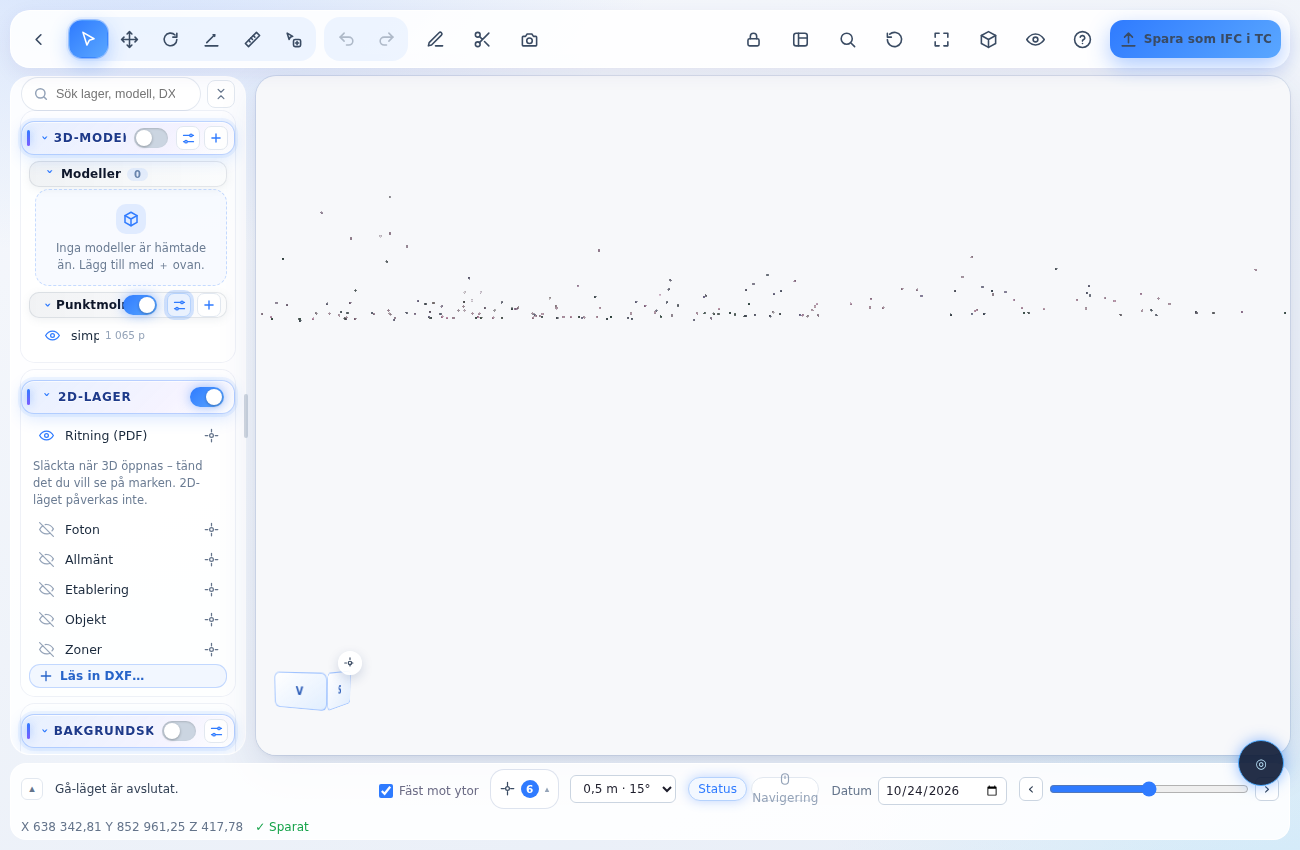
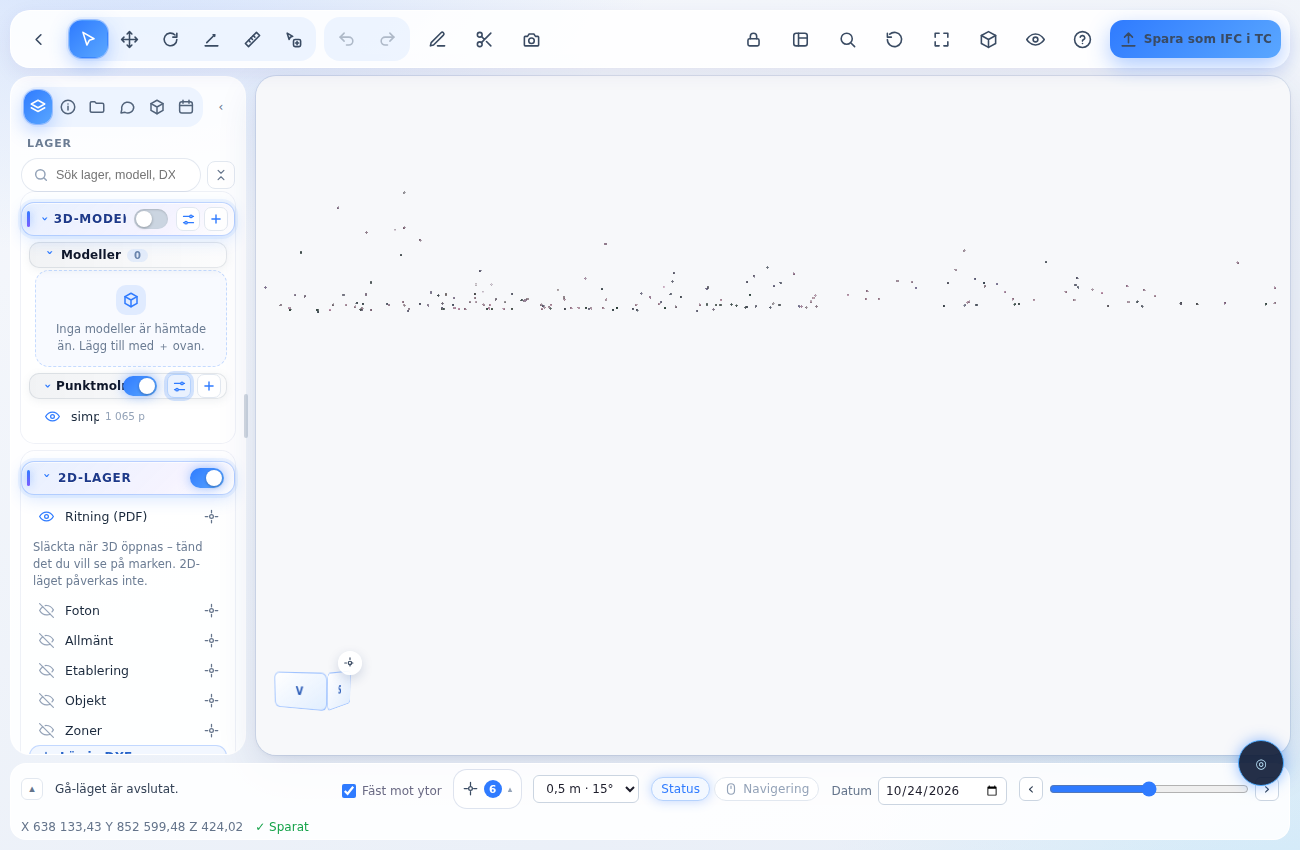
Rubrikdesignen i alla flikar, switchen längst ut i blockhuvudena, fix för ikonknappar med text

diff --git a/docs/lagesplan.html b/docs/lagesplan.html
@@ -10,9 +10,9 @@
 <meta name="theme-color" content="#ffffff" />
 <link rel="apple-touch-icon" href="icons/lagesplan-180.png" />
 <title>Lägesplan – 4D-planering</title>
-<script src="error-guard.js?v=20261024152437"></script>
+<script src="error-guard.js?v=20261024154053"></script>
 <script src="https://cdnjs.cloudflare.com/ajax/libs/pdf.js/3.11.174/pdf.min.js"></script>
-<script src="github-storage.js?v=20261024152437"></script>
+<script src="github-storage.js?v=20261024154053"></script>
 <style>
   /* Beskär bild med musen (lagesplan-imgcrop.js) */
   #imgCropModal { position: fixed; inset: 0; z-index: 1100; background: rgba(15,23,42,.55); display: flex; align-items: center; justify-content: center; }
@@ -1544,7 +1544,8 @@
   svg.ui-ic { width: 16px; height: 16px; flex: 0 0 auto; vertical-align: -3px; }
   svg.ui-plus { display: block; flex: 0 0 auto; }
   /* Ikonknappar: ikonen alltid mitt i knappen (marginaler/padding från andra regler får inte skjuta den åt sidan) */
-  #view3d.v3-nordic button:has(> svg:only-child):not(.v3-wide) { box-sizing: border-box; padding: 0; display: inline-grid; place-items: center; place-content: center; }
+  #view3d.v3-nordic :is(.v3-eye, .v3-lr-zoom, .v3-lr-more, .v3-lr-del, .v3-ldd-b, .v3-side-lock, .v3-lr-save-i, .v3-ic):has(> svg:only-child):not(:has(> svg + *)) { box-sizing: border-box; padding: 0; display: inline-grid; place-items: center; place-content: center; }
+  #view3d.v3-nordic button.ui-ic-only { display: inline-flex; align-items: center; justify-content: center; }
   button:has(> svg.ui-plus:only-child), .pp-n:has(> svg.ui-plus:only-child) { display: inline-flex; align-items: center; justify-content: center; }
   #view3d .v3-ldd-b > svg.ui-plus { width: 14px; height: 14px; }
   :has(> .ap-ic) > svg.ui-ic { display: none !important; } /* iPhone-fältläget har egna ikoner */
@@ -3272,6 +3273,11 @@ body.v3-gjdraw #v3Canvas canvas { cursor: crosshair; }
 .v3-pop-menu button { display: flex; align-items: center; justify-content: space-between; gap: 14px; width: 100%; padding: 7px 10px; border: 0; background: transparent; border-radius: 7px; font-size: 12.5px; color: #0f172a; cursor: pointer; text-align: left; }
 .v3-pop-menu button:hover:not(:disabled) { background: #eef5ff; color: #1d4ed8; } .v3-pop-menu button:disabled { opacity: .4; cursor: default; } .v3-pop-menu button.v3-danger { color: #b91c1c; } .v3-pop-menu button.v3-danger:hover { background: #fef2f2; }
 .v3-pop-menu kbd { font-size: 10px; color: #94a3b8; background: transparent; border: 0; } .v3-pop-menu hr { border: 0; border-top: 1px solid #e2e8f0; margin: 4px 2px; }
+#view3d.v3-nordic #v3Lib .v3-lf > button.v3-pal-g { flex: 1; width: auto; min-width: 0; }
+/* Samma rubrikdesign i alla flikar (bibliotek, grupper, kommentarer, egenskaper, plan) */
+#view3d.v3-nordic #v3Lib button.v3-pal-g, #view3d.v3-nordic .v3-gf-t, #view3d.v3-nordic .v3-ksec-h, #view3d.v3-nordic .v3-msec-h, #view3d.v3-nordic .v3-card-h, #view3d.v3-nordic .v3-pp-head, #view3d.v3-nordic .v3-afold-h { position: relative; margin: 8px 0 5px; padding: 6px 10px 6px 14px; border-radius: 12px; border: 1px solid rgba(47,123,255,.28); background: linear-gradient(135deg, rgba(47,123,255,.10), rgba(124,92,255,.06) 70%, rgba(255,255,255,0)); box-shadow: 0 0 0 3px rgba(47,123,255,.06), 0 4px 14px rgba(47,123,255,.15), inset 0 1px 0 rgba(255,255,255,.7); color: #1e3a8a; font-weight: 750; letter-spacing: .05em; text-transform: uppercase; font-size: 11.5px; }
+#view3d.v3-nordic #v3Lib button.v3-pal-g::after, #view3d.v3-nordic .v3-gf-t::after, #view3d.v3-nordic .v3-ksec-h::after, #view3d.v3-nordic .v3-msec-h::after, #view3d.v3-nordic .v3-card-h::after, #view3d.v3-nordic .v3-pp-head::after { content: ""; position: absolute; left: 5px; top: 7px; bottom: 7px; width: 3px; border-radius: 3px; background: linear-gradient(180deg, #2f7bff, #7c5cff); box-shadow: 0 0 8px rgba(47,123,255,.5); }
+#view3d.v3-nordic #v3Lib button.v3-pal-g:hover, #view3d.v3-nordic .v3-gf-t:hover, #view3d.v3-nordic .v3-ksec-h:hover, #view3d.v3-nordic .v3-msec-h:hover { color: #1d4ed8; box-shadow: 0 0 0 3px rgba(47,123,255,.12), 0 6px 18px rgba(47,123,255,.22), inset 0 1px 0 rgba(255,255,255,.7); background: linear-gradient(135deg, rgba(47,123,255,.14), rgba(124,92,255,.08)); }
 /* ---- Rubriker med mjukt sken (Victor 2026-10-24: "markera upp rubrikerna tydligare … som en glow runt kanterna") ---- */
 #view3d.v3-nordic .v3-lsec-h { position: relative; gap: 4px; margin: 10px 0 6px; padding: 4px 6px 4px 12px; border-radius: 13px; border: 1px solid rgba(47,123,255,.30); background: linear-gradient(135deg, rgba(47,123,255,.11), rgba(124,92,255,.07) 70%, rgba(255,255,255,0)); box-shadow: 0 0 0 3px rgba(47,123,255,.07), 0 5px 16px rgba(47,123,255,.17), inset 0 1px 0 rgba(255,255,255,.7); }
 #view3d.v3-nordic .v3-lsec-h::before { content: ""; position: absolute; left: 5px; top: 8px; bottom: 8px; width: 3px; border-radius: 3px; background: linear-gradient(180deg, #2f7bff, #7c5cff); box-shadow: 0 0 8px rgba(47,123,255,.55); }
@@ -3880,113 +3886,113 @@ details.sec[open] > summary { border-bottom: 0; margin: 0 -2px 10px; }
     </div>
   </main>
 </div>
-<script src="lagesplan-merge.js?v=20261024152437"></script>
-<script src="ui-icons.js?v=20261024152437"></script>
-<script src="ui-dialog.js?v=20261024152437"></script>
-<script src="lagesplan-ui.js?v=20261024152437"></script>
-<script src="lagesplan.js?v=20261024152437"></script>
-<script src="lagesplan-tools.js?v=20261024152437"></script>
-<script src="lagesplan-layers.js?v=20261024152437"></script>
-<script src="lagesplan-xls.js?v=20261024152437"></script>
-<script src="lagesplan-storage.js?v=20261024152437"></script>
-<script src="lagesplan-pdfoverlay.js?v=20261024152437"></script>
-<script src="lagesplan-pdfunder.js?v=20261024152437"></script>
-<script src="lagesplan-views.js?v=20261024152437"></script>
-<script src="lagesplan-film.js?v=20261024152437"></script>
-<script src="lagesplan-cad.js?v=20261024152437"></script>
-<script src="lagesplan-ifc2d.js?v=20261024152437"></script>
-<script src="lagesplan-vecpdf.js?v=20261024152437"></script>
-<script src="lagesplan-pdfvec.js?v=20261024152437"></script>
-<script src="lagesplan-print.js?v=20261024152437"></script>
-<script src="lagesplan-arrows.js?v=20261024152437"></script>
-<script src="lagesplan-printshapes.js?v=20261024152437"></script>
-<script src="lagesplan-objstatus.js?v=20261024152437"></script>
-<script src="lagesplan-printsection.js?v=20261024152437"></script>
-<script src="lagesplan-printtable.js?v=20261024152437"></script>
-<script src="lagesplan-printctx.js?v=20261024152437"></script>
-<script src="lagesplan-printdxf.js?v=20261024152437"></script>
-<script src="lagesplan-imgcrop.js?v=20261024152437"></script>
-<script src="lagesplan-printlib.js?v=20261024152437"></script>
-<script src="lagesplan-pdflayers.js?v=20261024152437"></script>
-<script src="vendor/polygon-clipping.umd.min.js?v=20261024152437"></script>
-<script src="lagesplan-objmarks.js?v=20261024152437"></script>
-<script src="lagesplan-objlist.js?v=20261024152437"></script>
-<script src="lagesplan-zones.js?v=20261024152437"></script>
-<script src="lagesplan-wbs.js?v=20261024152437"></script>
-<script src="lagesplan-zonesets.js?v=20261024152437"></script>
-<script src="lagesplan-zoneguard.js?v=20261024152437"></script>
-<script src="lagesplan-zoneexport.js?v=20261024152437"></script>
-<script src="lagesplan-itemlink.js?v=20261024152437"></script>
-<script src="lagesplan-dxfexport.js?v=20261024152437"></script>
-<script src="ifc-writer.js?v=20261024152437"></script>
-<script src="lagesplan-ifcexport.js?v=20261024152437"></script>
-<script src="lagesplan-zonecad.js?v=20261024152437"></script>
-<script src="lagesplan-siteifc.js?v=20261024152437"></script>
-<script src="lagesplan-daily.js?v=20261024152437"></script>
-<script src="lagesplan-gps.js?v=20261024152437"></script>
-<script src="lagesplan-weather.js?v=20261024152437"></script>
-<script src="lagesplan-touch.js?v=20261024152437"></script>
-<script src="lagesplan-drawer.js?v=20261024152437"></script>
-<script src="lagesplan-gpslive.js?v=20261024152437"></script>
-<script src="place3d.js?v=20261024152437"></script>
-<script src="ifc-mesh.js?v=20261024152437"></script>
-<script src="place-models.js?v=20261024152437"></script>
-<script src="lagesplan-3dbuild.js?v=20261024152437"></script>
-<script src="lagesplan-3dlight.js?v=20261024152437"></script>
-<script src="lagesplan-3dpc.js?v=20261024152437"></script>
-<script src="lagesplan-3dbsel.js?v=20261024152437"></script>
-<script src="lagesplan-3dtint.js?v=20261024152437"></script>
-<script src="lagesplan-3dbmove.js?v=20261024152437"></script>
-<script src="ifc-subset.js?v=20261024152437"></script>
-<script src="lagesplan-3dprops.js?v=20261024152437"></script>
-<script src="lagesplan-3dgroups.js?v=20261024152437"></script>
-<script src="lagesplan-3dorg.js?v=20261024152437"></script>
-<script src="lagesplan-3danim.js?v=20261024152437"></script>
-<script src="lagesplan-3dactive.js?v=20261024152437"></script>
-<script src="lagesplan-3dbubbles.js?v=20261024152437"></script>
-<script src="lagesplan-3dfilm.js?v=20261024152437"></script>
-<script src="lagesplan-3dfilmfx.js?v=20261024152437"></script>
-<script src="lagesplan-3dgantt.js?v=20261024152437"></script>
-<script src="lagesplan-3dmode.js?v=20261024152437"></script>
-<script src="lagesplan-ppexport.js?v=20261024152437"></script>
-<script src="lagesplan-3dplan.js?v=20261024152437"></script>
-<script src="lagesplan-3dsite.js?v=20261024152437"></script>
-<script src="lagesplan-3dsitesel.js?v=20261024152437"></script>
-<script src="lagesplan-3ddxf.js?v=20261024152437"></script>
-<script src="lagesplan-3dmeasure.js?v=20261024152437"></script>
-<script src="lagesplan-3dclip.js?v=20261024152437"></script>
-<script src="lagesplan-3dphotos.js?v=20261024152437"></script>
-<script src="lagesplan-3dcomments.js?v=20261024152437"></script>
-<script src="lagesplan-3dannot.js?v=20261024152437"></script>
-<script src="lagesplan-3dlib.js?v=20261024152437"></script>
-<script src="lagesplan-htmlexport.js?v=20261024152437"></script>
-<script src="lagesplan-3dplace.js?v=20261024152437"></script>
-<script src="lagesplan-montage3d.js?v=20261024152437"></script>
-<script src="montage-report-modern.js?v=20261024152437"></script>
-<script src="lagesplan-3dmont.js?v=20261024152437"></script>
-<script src="lagesplan-3dlayers.js?v=20261024152437"></script>
-<script src="lagesplan-3dnav.js?v=20261024152437"></script>
-<script src="lagesplan-3dmap.js?v=20261024152437"></script>
-<script src="lagesplan-3dctx.js?v=20261024152437"></script>
-<script src="lagesplan-3dui.js?v=20261024152437"></script>
-<script src="lagesplan-3dgjut.js?v=20261024152437"></script>
-<script src="lagesplan-3dexplode.js?v=20261024152437"></script>
-<script src="lagesplan-3dchar.js?v=20261024152437"></script>
-<script src="lagesplan-3dglb.js?v=20261024152437"></script>
-<script src="lagesplan-3dlift.js?v=20261024152437"></script>
-<script src="place-geo.js?v=20261024152437"></script>
-<script src="place-smart.js?v=20261024152437"></script>
-<script src="place-smart-objs.js?v=20261024152437"></script>
-<script src="place-crew.js?v=20261024152437"></script>
-<script src="lagesplan-3dwheel.js?v=20261024152437"></script>
-<script src="lagesplan-3dveh.js?v=20261024152437"></script>
-<script src="lagesplan-3dvehifc.js?v=20261024152437"></script>
-<script src="lagesplan-3dwalk.js?v=20261024152437"></script>
-<script src="lagesplan-3ddialogs.js?v=20261024152437"></script>
-<script src="lagesplan-3dclash.js?v=20261024152437"></script>
-<script src="lagesplan-3dhandles.js?v=20261024152437"></script>
-<script src="lagesplan-3dtools.js?v=20261024152437"></script>
-<script src="lagesplan-3d.js?v=20261024152437"></script>
-<script src="lagesplan-keys.js?v=20261024152437"></script>
+<script src="lagesplan-merge.js?v=20261024154053"></script>
+<script src="ui-icons.js?v=20261024154053"></script>
+<script src="ui-dialog.js?v=20261024154053"></script>
+<script src="lagesplan-ui.js?v=20261024154053"></script>
+<script src="lagesplan.js?v=20261024154053"></script>
+<script src="lagesplan-tools.js?v=20261024154053"></script>
+<script src="lagesplan-layers.js?v=20261024154053"></script>
+<script src="lagesplan-xls.js?v=20261024154053"></script>
+<script src="lagesplan-storage.js?v=20261024154053"></script>
+<script src="lagesplan-pdfoverlay.js?v=20261024154053"></script>
+<script src="lagesplan-pdfunder.js?v=20261024154053"></script>
+<script src="lagesplan-views.js?v=20261024154053"></script>
+<script src="lagesplan-film.js?v=20261024154053"></script>
+<script src="lagesplan-cad.js?v=20261024154053"></script>
+<script src="lagesplan-ifc2d.js?v=20261024154053"></script>
+<script src="lagesplan-vecpdf.js?v=20261024154053"></script>
+<script src="lagesplan-pdfvec.js?v=20261024154053"></script>
+<script src="lagesplan-print.js?v=20261024154053"></script>
+<script src="lagesplan-arrows.js?v=20261024154053"></script>
+<script src="lagesplan-printshapes.js?v=20261024154053"></script>
+<script src="lagesplan-objstatus.js?v=20261024154053"></script>
+<script src="lagesplan-printsection.js?v=20261024154053"></script>
+<script src="lagesplan-printtable.js?v=20261024154053"></script>
+<script src="lagesplan-printctx.js?v=20261024154053"></script>
+<script src="lagesplan-printdxf.js?v=20261024154053"></script>
+<script src="lagesplan-imgcrop.js?v=20261024154053"></script>
+<script src="lagesplan-printlib.js?v=20261024154053"></script>
+<script src="lagesplan-pdflayers.js?v=20261024154053"></script>
+<script src="vendor/polygon-clipping.umd.min.js?v=20261024154053"></script>
+<script src="lagesplan-objmarks.js?v=20261024154053"></script>
+<script src="lagesplan-objlist.js?v=20261024154053"></script>
+<script src="lagesplan-zones.js?v=20261024154053"></script>
+<script src="lagesplan-wbs.js?v=20261024154053"></script>
+<script src="lagesplan-zonesets.js?v=20261024154053"></script>
+<script src="lagesplan-zoneguard.js?v=20261024154053"></script>
+<script src="lagesplan-zoneexport.js?v=20261024154053"></script>
+<script src="lagesplan-itemlink.js?v=20261024154053"></script>
+<script src="lagesplan-dxfexport.js?v=20261024154053"></script>
+<script src="ifc-writer.js?v=20261024154053"></script>
+<script src="lagesplan-ifcexport.js?v=20261024154053"></script>
+<script src="lagesplan-zonecad.js?v=20261024154053"></script>
+<script src="lagesplan-siteifc.js?v=20261024154053"></script>
+<script src="lagesplan-daily.js?v=20261024154053"></script>
+<script src="lagesplan-gps.js?v=20261024154053"></script>
+<script src="lagesplan-weather.js?v=20261024154053"></script>
+<script src="lagesplan-touch.js?v=20261024154053"></script>
+<script src="lagesplan-drawer.js?v=20261024154053"></script>
+<script src="lagesplan-gpslive.js?v=20261024154053"></script>
+<script src="place3d.js?v=20261024154053"></script>
+<script src="ifc-mesh.js?v=20261024154053"></script>
+<script src="place-models.js?v=20261024154053"></script>
+<script src="lagesplan-3dbuild.js?v=20261024154053"></script>
+<script src="lagesplan-3dlight.js?v=20261024154053"></script>
+<script src="lagesplan-3dpc.js?v=20261024154053"></script>
+<script src="lagesplan-3dbsel.js?v=20261024154053"></script>
+<script src="lagesplan-3dtint.js?v=20261024154053"></script>
+<script src="lagesplan-3dbmove.js?v=20261024154053"></script>
+<script src="ifc-subset.js?v=20261024154053"></script>
+<script src="lagesplan-3dprops.js?v=20261024154053"></script>
+<script src="lagesplan-3dgroups.js?v=20261024154053"></script>
+<script src="lagesplan-3dorg.js?v=20261024154053"></script>
+<script src="lagesplan-3danim.js?v=20261024154053"></script>
+<script src="lagesplan-3dactive.js?v=20261024154053"></script>
+<script src="lagesplan-3dbubbles.js?v=20261024154053"></script>
+<script src="lagesplan-3dfilm.js?v=20261024154053"></script>
+<script src="lagesplan-3dfilmfx.js?v=20261024154053"></script>
+<script src="lagesplan-3dgantt.js?v=20261024154053"></script>
+<script src="lagesplan-3dmode.js?v=20261024154053"></script>
+<script src="lagesplan-ppexport.js?v=20261024154053"></script>
+<script src="lagesplan-3dplan.js?v=20261024154053"></script>
+<script src="lagesplan-3dsite.js?v=20261024154053"></script>
+<script src="lagesplan-3dsitesel.js?v=20261024154053"></script>
+<script src="lagesplan-3ddxf.js?v=20261024154053"></script>
+<script src="lagesplan-3dmeasure.js?v=20261024154053"></script>
+<script src="lagesplan-3dclip.js?v=20261024154053"></script>
+<script src="lagesplan-3dphotos.js?v=20261024154053"></script>
+<script src="lagesplan-3dcomments.js?v=20261024154053"></script>
+<script src="lagesplan-3dannot.js?v=20261024154053"></script>
+<script src="lagesplan-3dlib.js?v=20261024154053"></script>
+<script src="lagesplan-htmlexport.js?v=20261024154053"></script>
+<script src="lagesplan-3dplace.js?v=20261024154053"></script>
+<script src="lagesplan-montage3d.js?v=20261024154053"></script>
+<script src="montage-report-modern.js?v=20261024154053"></script>
+<script src="lagesplan-3dmont.js?v=20261024154053"></script>
+<script src="lagesplan-3dlayers.js?v=20261024154053"></script>
+<script src="lagesplan-3dnav.js?v=20261024154053"></script>
+<script src="lagesplan-3dmap.js?v=20261024154053"></script>
+<script src="lagesplan-3dctx.js?v=20261024154053"></script>
+<script src="lagesplan-3dui.js?v=20261024154053"></script>
+<script src="lagesplan-3dgjut.js?v=20261024154053"></script>
+<script src="lagesplan-3dexplode.js?v=20261024154053"></script>
+<script src="lagesplan-3dchar.js?v=20261024154053"></script>
+<script src="lagesplan-3dglb.js?v=20261024154053"></script>
+<script src="lagesplan-3dlift.js?v=20261024154053"></script>
+<script src="place-geo.js?v=20261024154053"></script>
+<script src="place-smart.js?v=20261024154053"></script>
+<script src="place-smart-objs.js?v=20261024154053"></script>
+<script src="place-crew.js?v=20261024154053"></script>
+<script src="lagesplan-3dwheel.js?v=20261024154053"></script>
+<script src="lagesplan-3dveh.js?v=20261024154053"></script>
+<script src="lagesplan-3dvehifc.js?v=20261024154053"></script>
+<script src="lagesplan-3dwalk.js?v=20261024154053"></script>
+<script src="lagesplan-3ddialogs.js?v=20261024154053"></script>
+<script src="lagesplan-3dclash.js?v=20261024154053"></script>
+<script src="lagesplan-3dhandles.js?v=20261024154053"></script>
+<script src="lagesplan-3dtools.js?v=20261024154053"></script>
+<script src="lagesplan-3d.js?v=20261024154053"></script>
+<script src="lagesplan-keys.js?v=20261024154053"></script>
 </body>
 </html>

diff --git a/docs/lagesplan-3dlayers.js b/docs/lagesplan-3dlayers.js
@@ -137,7 +137,7 @@ function l3LayersRender() {
     }
     // Grupperna Modeller och Punktmoln (hopfällbara).
     const nm = all.length;
-    mh = l3lSub("models", "Modeller", nm, mh) + (typeof l3pcHtml === "function" ? l3lSub("pc", "Punktmoln", l3pcCount() || null, l3pcHtml(row, esc), l3lSw("pc", "Tänd/släck alla punktmoln") + (typeof l3pcSettingsHtml === "function" ? l3lMenu("pcset", '<svg viewBox="0 0 24 24" width="15" height="15" fill="none" stroke="currentColor" stroke-width="2" stroke-linecap="round" stroke-linejoin="round"><path d="M4 7h10M18 7h2M4 17h2M10 17h10"/><circle cx="16" cy="7" r="2"/><circle cx="8" cy="17" r="2"/></svg>', "Visning av punktmoln", l3pcSettingsHtml()) : "") + l3lMenu("pc", "＋", "Lägg till punktmoln", (noTc ? "" : `<button type="button" data-l3l-browse="1" title="Projektets mappar i Trimble Connect – välj en LAS/LAZ/E57-fil">Från Trimble Connect…</button>`) + `<button type="button" data-pcfile2="1" title="LAS, LAZ, XYZ/PTS/TXT eller PLY från datorn (även över 2 GB)">Från datorn…</button>`)) : "");
+    mh = l3lSub("models", "Modeller", nm, mh) + (typeof l3pcHtml === "function" ? l3lSub("pc", "Punktmoln", l3pcCount() || null, l3pcHtml(row, esc), (typeof l3pcSettingsHtml === "function" ? l3lMenu("pcset", '<svg viewBox="0 0 24 24" width="15" height="15" fill="none" stroke="currentColor" stroke-width="2" stroke-linecap="round" stroke-linejoin="round"><path d="M4 7h10M18 7h2M4 17h2M10 17h10"/><circle cx="16" cy="7" r="2"/><circle cx="8" cy="17" r="2"/></svg>', "Visning av punktmoln", l3pcSettingsHtml()) : "") + l3lMenu("pc", "＋", "Lägg till punktmoln", (noTc ? "" : `<button type="button" data-l3l-browse="1" title="Projektets mappar i Trimble Connect – välj en LAS/LAZ/E57-fil">Från Trimble Connect…</button>`) + `<button type="button" data-pcfile2="1" title="LAS, LAZ, XYZ/PTS/TXT eller PLY från datorn (även över 2 GB)">Från datorn…</button>`) + l3lSw("pc", "Tänd/släck alla punktmoln")) : "");
   } else mh += l3lTreeHtml(l3lay.root, 0);
   mh += `<div id="v3LayBldgBox"></div>`;
   // Inställningar (sällan ändrade) i ett eget block längst ner – grupperade, korta namn, förklaring vid hovring.
@@ -171,9 +171,9 @@ function l3LayersRender() {
     ${chk("v3LayRebar", !!P.ifcRebar, "Armering", "mycket långsammare", "Armeringsjärn och nät. Ofta tiotusentals objekt och det tyngsta i en byggmodell – kan göra att stora modeller inte orkar läsas in.")}
     ${chk("v3LayVoids", !!P.ifcVoids, "Urtag", "hål i väggar, långsammare", "Fönster- och dörrhål sågas ut ur väggar och bjälklag. Gör inläsningen av stora modeller många gånger långsammare – gäller modeller som läses in efter att du ändrat.")}
     <button type="button" class="v3-link" id="v3MdlReset">Återställ visningen</button></div>`;
-  const modelsSec = l3lSec("models", "3D-modeller", `${tcBar}${mh}`, l3lSw("models", "Tänd/släck alla 3D-modeller") + l3lMenu("mdlset", '<svg viewBox="0 0 24 24" width="15" height="15" fill="none" stroke="currentColor" stroke-width="2" stroke-linecap="round" stroke-linejoin="round"><path d="M4 7h10M18 7h2M4 17h2M10 17h10"/><circle cx="16" cy="7" r="2"/><circle cx="8" cy="17" r="2"/></svg>', "Visning av 3D-modeller", mdlMenu) + l3lMenu("models", "＋", "Lägg till modell eller punktmoln", addItems));
+  const modelsSec = l3lSec("models", "3D-modeller", `${tcBar}${mh}`, l3lMenu("mdlset", '<svg viewBox="0 0 24 24" width="15" height="15" fill="none" stroke="currentColor" stroke-width="2" stroke-linecap="round" stroke-linejoin="round"><path d="M4 7h10M18 7h2M4 17h2M10 17h10"/><circle cx="16" cy="7" r="2"/><circle cx="8" cy="17" r="2"/></svg>', "Visning av 3D-modeller", mdlMenu) + l3lMenu("models", "＋", "Lägg till modell eller punktmoln", addItems) + l3lSw("models", "Tänd/släck alla 3D-modeller"));
   h = h.replace("<!--l3l-models-->", modelsSec);
-  if (typeof l3mapBody === "function") h += l3lSec("map", "BAKGRUNDSKARTA", l3mapBody(), `<label class="v3-lay-sw" title="Visa karta/satellit under modellerna"><input type="checkbox" data-lmapsw="1" ${l3Prefs().mapOn === true ? "checked" : ""} role="switch" aria-label="Bakgrundskarta" /><i></i></label>` + l3lMenu("mapset", '<svg viewBox="0 0 24 24" width="15" height="15" fill="none" stroke="currentColor" stroke-width="2" stroke-linecap="round" stroke-linejoin="round"><path d="M4 7h10M18 7h2M4 17h2M10 17h10"/><circle cx="16" cy="7" r="2"/><circle cx="8" cy="17" r="2"/></svg>', "Inställningar för kartan", l3mapSettingsHtml()));
+  if (typeof l3mapBody === "function") h += l3lSec("map", "BAKGRUNDSKARTA", l3mapBody(), l3lMenu("mapset", '<svg viewBox="0 0 24 24" width="15" height="15" fill="none" stroke="currentColor" stroke-width="2" stroke-linecap="round" stroke-linejoin="round"><path d="M4 7h10M18 7h2M4 17h2M10 17h10"/><circle cx="16" cy="7" r="2"/><circle cx="8" cy="17" r="2"/></svg>', "Inställningar för kartan", l3mapSettingsHtml()) + `<label class="v3-lay-sw" title="Visa karta/satellit under modellerna"><input type="checkbox" data-lmapsw="1" ${l3Prefs().mapOn === true ? "checked" : ""} role="switch" aria-label="Bakgrundskarta" /><i></i></label>`);
   h += l3lSec("settings", "Inställningar", setH);
   host.innerHTML = h;
   if (q) {

diff --git a/docs/index.html b/docs/index.html
@@ -3,12 +3,12 @@
 <head>
 <meta charset="UTF-8" />
 <title>4D-planering</title>
-<link rel="stylesheet" href="style.css?v=20261024152437" />
-<script src="error-guard.js?v=20261024152437"></script>
+<link rel="stylesheet" href="style.css?v=20261024154053" />
+<script src="error-guard.js?v=20261024154053"></script>
 <script src="https://components.connect.trimble.com/trimble-connect-workspace-api/index.js"></script>
 <script src="https://cdnjs.cloudflare.com/ajax/libs/xlsx/0.18.5/xlsx.full.min.js"></script>
-<script src="plan-excel-parser.js?v=20261024152437"></script>
-<script src="plan-excel-comments.js?v=20261024152437"></script>
+<script src="plan-excel-parser.js?v=20261024154053"></script>
+<script src="plan-excel-comments.js?v=20261024154053"></script>
 </head>
 <body>
 
@@ -759,33 +759,33 @@
     </div>
   </div>
 
-  <script src="github-storage.js?v=20261024152437"></script>
-  <script src="excel-link.js?v=20261024152437"></script>
-  <script src="dashboard-link.js?v=20261024152437"></script>
-  <script src="app.js?v=20261024152437"></script>
-<script src="import-report-html.js?v=20261024152437"></script>
-  <script src="manual-markings.js?v=20261024152437"></script>
-  <script src="ifc-writer.js?v=20261024152437"></script>
-  <script src="pp-import.js?v=20261024152437"></script>
-  <script src="pp-compare.js?v=20261024152437"></script>
-  <script src="data-maintenance.js?v=20261024152437"></script>
-  <script src="ifc-subset.js?v=20261024152437"></script>
-  <script src="tc-organizer.js?v=20261024152437"></script>
-  <script src="week-summary.js?v=20261024152437"></script>
-  <script src="ifc-mesh.js?v=20261024152437"></script>
-  <script src="place-models.js?v=20261024152437"></script>
-  <script src="tc-livemove.js?v=20261024152437"></script>
-  <script src="place3d.js?v=20261024152437"></script>
-  <script src="place-geo.js?v=20261024152437"></script>
-<script src="place-smart.js?v=20261024152437"></script>
-<script src="place-smart-objs.js?v=20261024152437"></script>
-<script src="place-crew.js?v=20261024152437"></script>
-  <script src="volume-ifc.js?v=20261024152437"></script>
-  <script src="sub-activity-list.js?v=20261024152437"></script>
-  <script src="activity-remove.js?v=20261024152437"></script>
-  <script src="dup-check.js?v=20261024152437"></script>
-  <script src="ui-shell.js?v=20261024152437"></script>
-  <script src="undo.js?v=20261024152437"></script>
-  <script src="planning-keys.js?v=20261024152437"></script>
+  <script src="github-storage.js?v=20261024154053"></script>
+  <script src="excel-link.js?v=20261024154053"></script>
+  <script src="dashboard-link.js?v=20261024154053"></script>
+  <script src="app.js?v=20261024154053"></script>
+<script src="import-report-html.js?v=20261024154053"></script>
+  <script src="manual-markings.js?v=20261024154053"></script>
+  <script src="ifc-writer.js?v=20261024154053"></script>
+  <script src="pp-import.js?v=20261024154053"></script>
+  <script src="pp-compare.js?v=20261024154053"></script>
+  <script src="data-maintenance.js?v=20261024154053"></script>
+  <script src="ifc-subset.js?v=20261024154053"></script>
+  <script src="tc-organizer.js?v=20261024154053"></script>
+  <script src="week-summary.js?v=20261024154053"></script>
+  <script src="ifc-mesh.js?v=20261024154053"></script>
+  <script src="place-models.js?v=20261024154053"></script>
+  <script src="tc-livemove.js?v=20261024154053"></script>
+  <script src="place3d.js?v=20261024154053"></script>
+  <script src="place-geo.js?v=20261024154053"></script>
+<script src="place-smart.js?v=20261024154053"></script>
+<script src="place-smart-objs.js?v=20261024154053"></script>
+<script src="place-crew.js?v=20261024154053"></script>
+  <script src="volume-ifc.js?v=20261024154053"></script>
+  <script src="sub-activity-list.js?v=20261024154053"></script>
+  <script src="activity-remove.js?v=20261024154053"></script>
+  <script src="dup-check.js?v=20261024154053"></script>
+  <script src="ui-shell.js?v=20261024154053"></script>
+  <script src="undo.js?v=20261024154053"></script>
+  <script src="planning-keys.js?v=20261024154053"></script>
 </body>
 </html>

diff --git a/docs/app.js b/docs/app.js
@@ -9,7 +9,7 @@
 // Uppdateras för hand till aktuellt klockslag/datum (Europa/Stockholm) varje
 // gång en ny version pushas till GitHub, så man kan se i appen när den
 // senast uppdaterades.
-const APP_VERSION = "2026-10-24 17:24";
+const APP_VERSION = "2026-10-24 17:40";
 
 let API = null;              // Workspace API-instans
 let projectId = null;        // Aktuellt Trimble Connect-projekt
